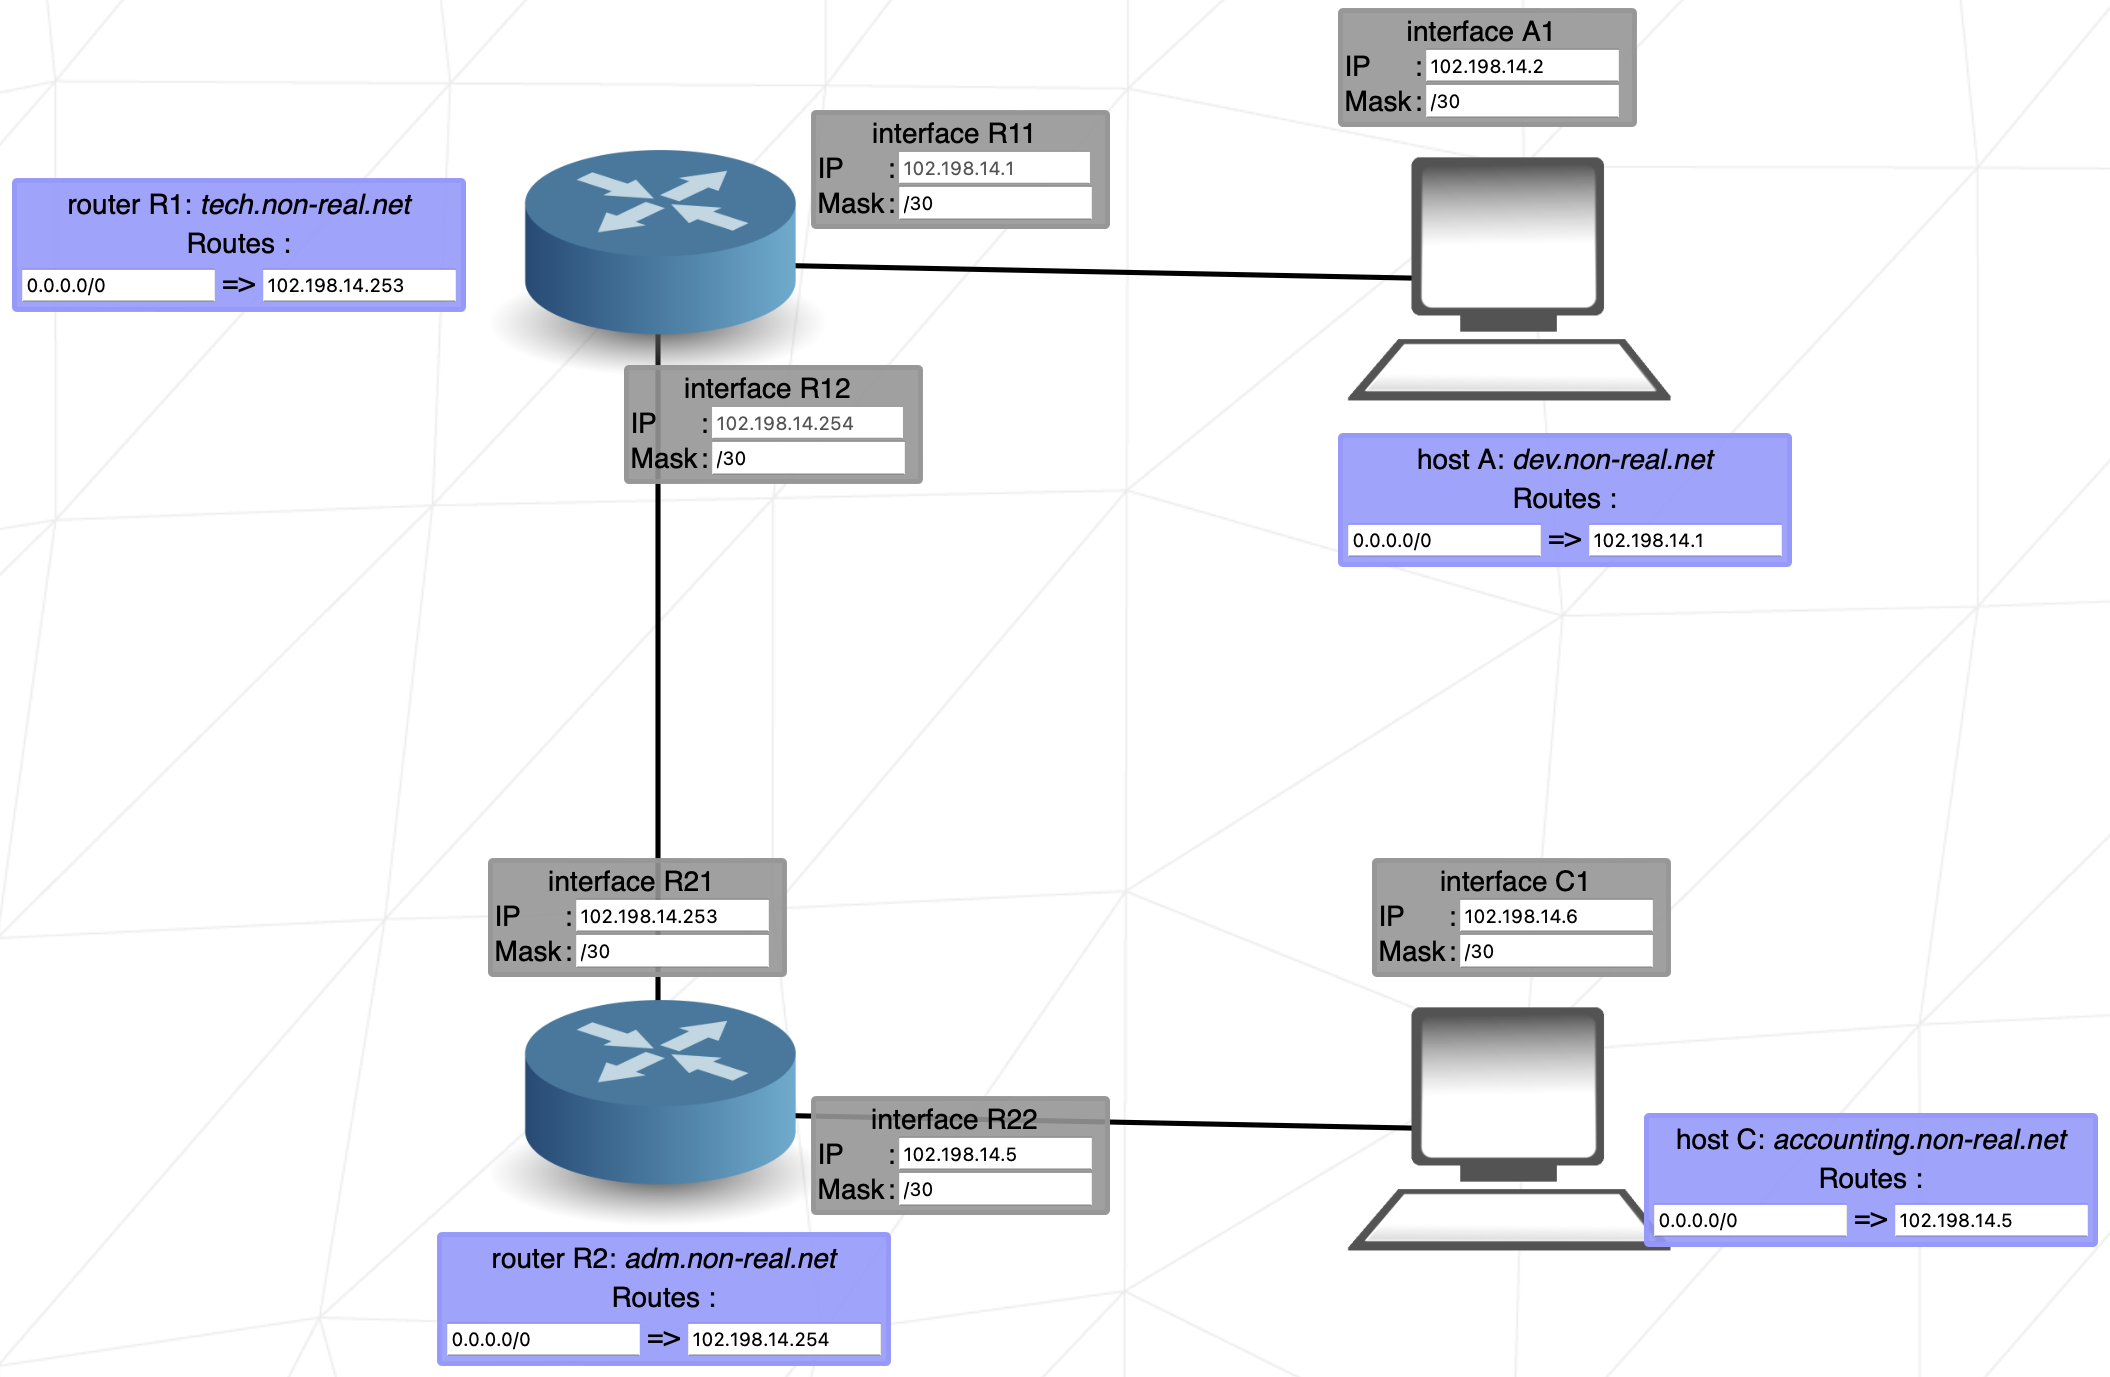
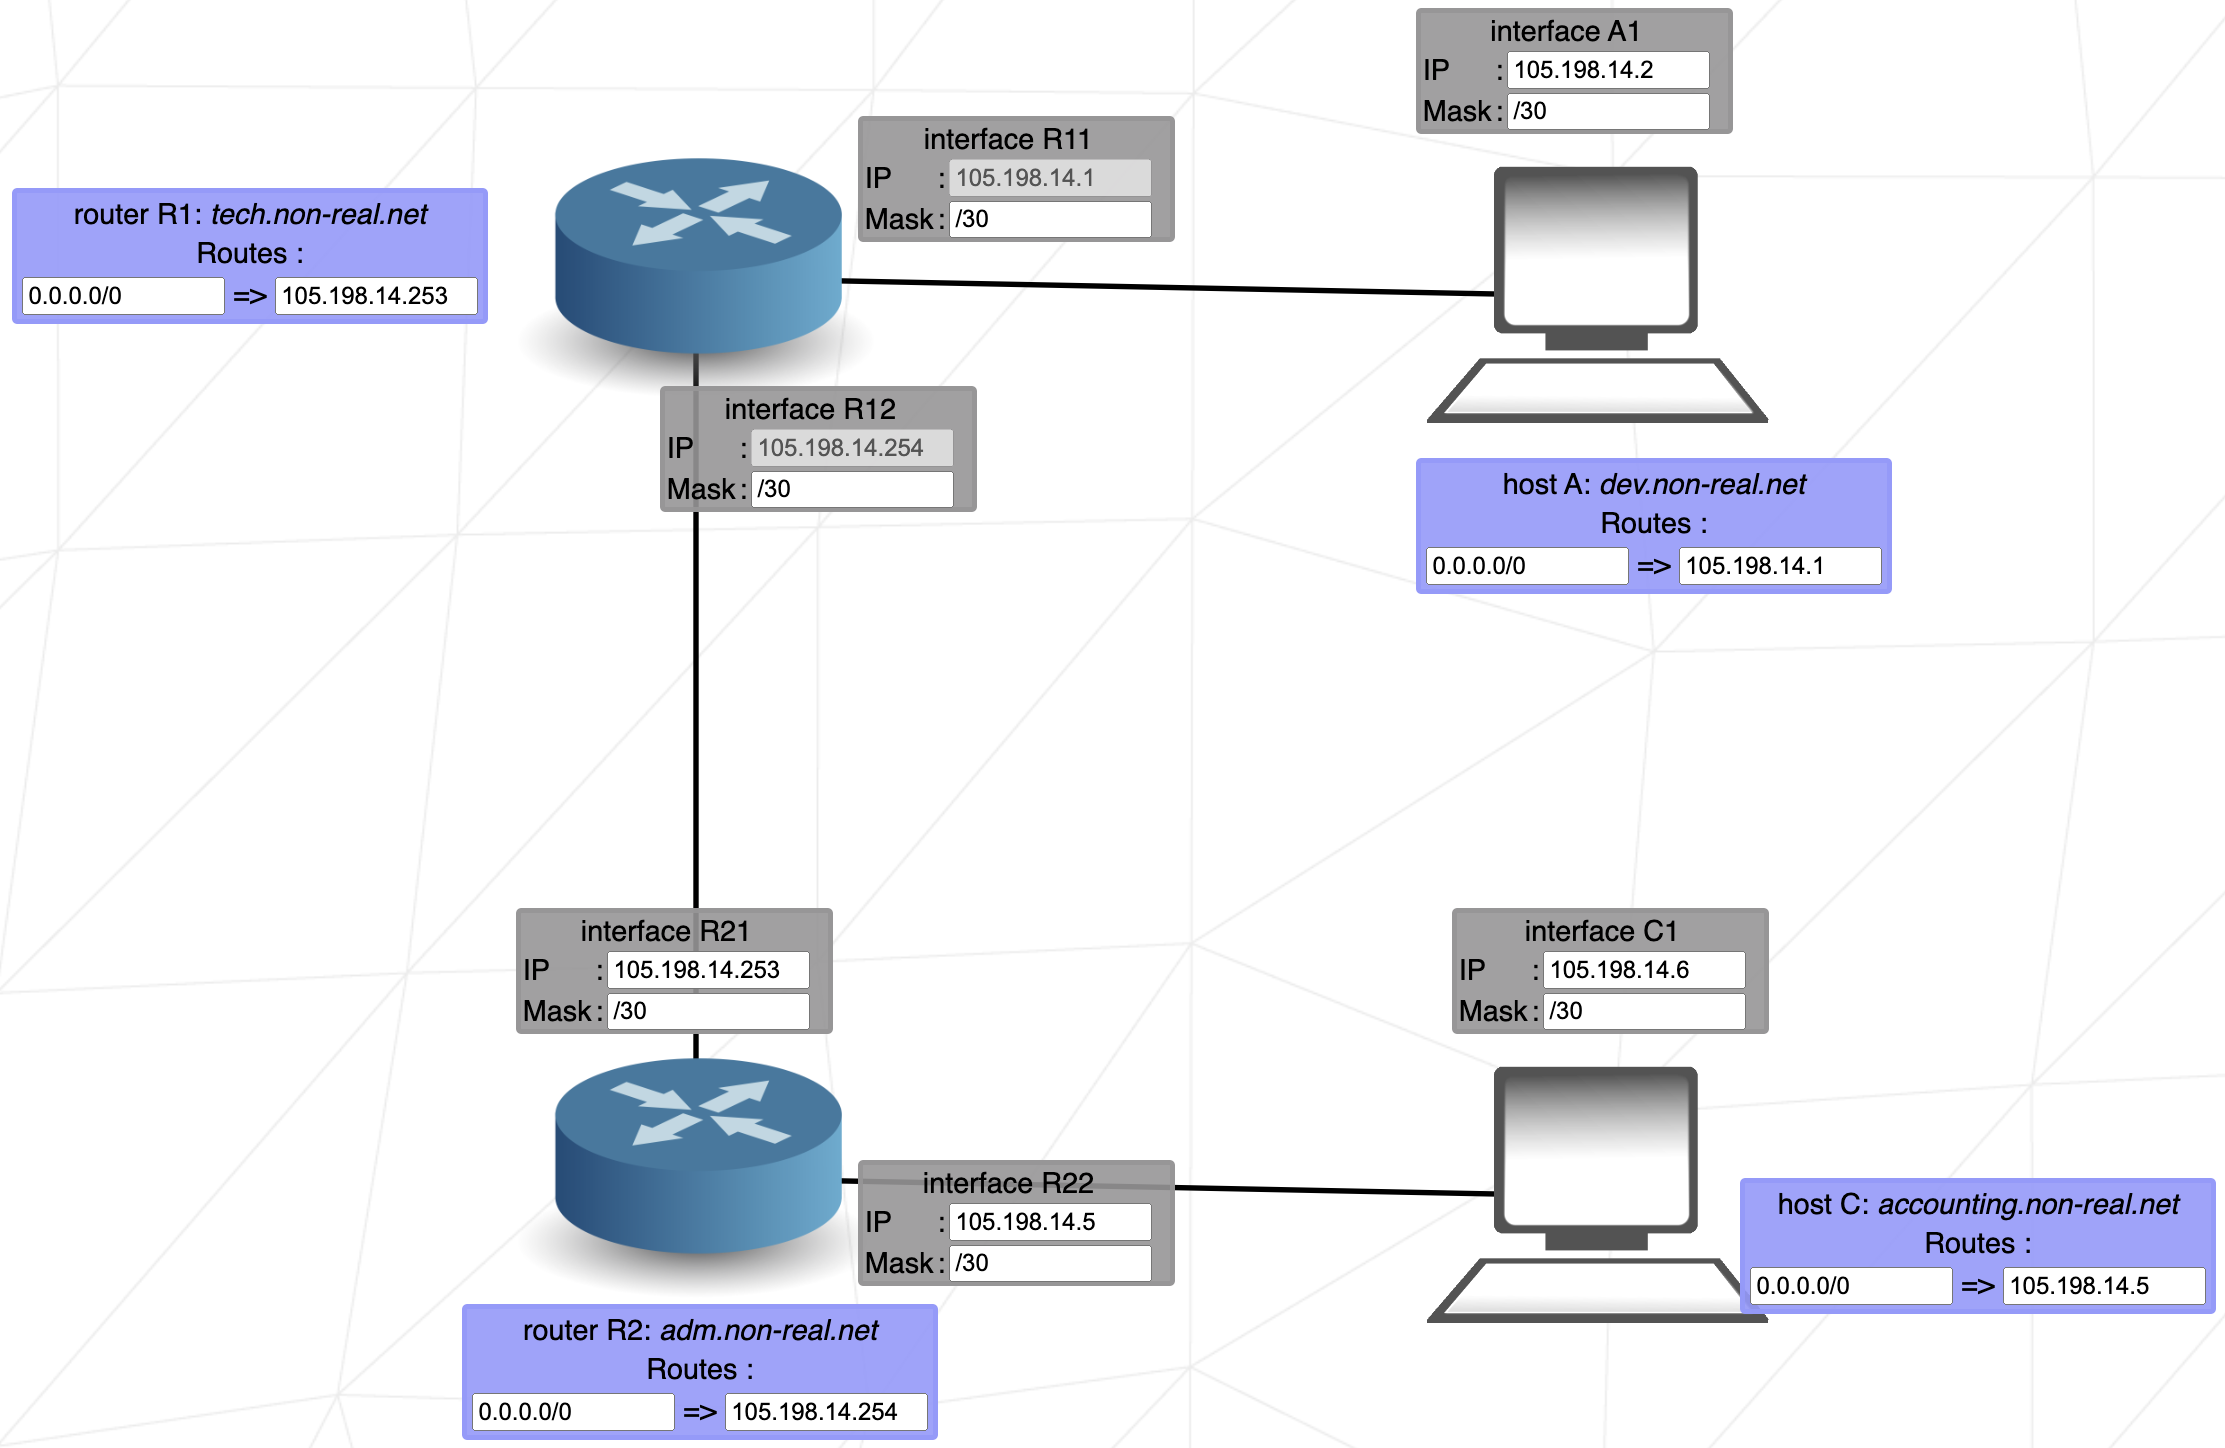
blabla

diff --git a/README.md b/README.md
@@ -337,6 +337,8 @@ comme on doit être dans la même plage que 222, qui est < 224, on peut choisir 
 
 voir les <a href="#m252">plages avec 252</a>.
 
+les adresses 127.x.x.x sont réservées pour le **loopback**, aussi appelé **localhost**, qui consiste à renvoyer des paquets vers son expéditeur sans passer par le réseau.
+
 [&uarr; retour au sommaire &uarr;](#sommaire)
 
 ## niveau 3
@@ -385,7 +387,7 @@ en effet, en partant de A, si l'adresse de destination est l'adresse IP de B, un
 en destination, on peut donc mettre l'adresse du sous-réseau de B, c'est-à-dire par exemple : 
 * `158.87.36.255/18`
 * `158.87.63.255/18` (on est toujours dans la plage < 64 avec le masque 192)
-* `158.87.0.0/0` (sans utiliser le masque)
+* `158.87.0.0/0` (on utilise pas le masque)
 
 le plus simple c'est de mettre `default` en destination.
 
@@ -395,17 +397,60 @@ le plus simple c'est de mettre `default` en destination.
 
 <img src="img/solution/6.png" width="100%" />
 
+il y a 2 sous-réseaux.
+
+dans le sous-réseau de A, le dernier octet doit être > 128.
+
+la table de routage du routeur s'occupe d'envoyer les paquets de A vers Internet.
+
+pour qu'un paquet puisse passer d'Internet au sous-réseau de A, il faut donner l'adresse du sous-réseau de A à la table de routage d'Internet.
+
 [&uarr; retour au sommaire &uarr;](#sommaire)
 
 ## niveau 7
 
 <img src="img/solution/7.png" width="100%" />
 
+il y a 3 sous-réseaux.
+
+le nombre d'interfaces par sous-réseau n'étant jamais > 2, on peut utiliser un masque /30.  
+cela permet d'utiliser `105.198.14` au début de chaque adresse IP et de définir 4 plages distinctes sur le dernier octet :
+* de 0 et 3 pour R11 et A1
+* de 252 à 255 pour R12 et R21
+* de 4 à 7 (par exemple) pour R22 et C1
+
+on peut aussi utiliser un masque /29, /28, /27 ou /26, mais pas /25 car cela ne ferait que 2 plages possibles sur le dernier octet (cf. <a href="#m128">plages pour 128</a>).
+
+autre exemple, en /26 on peut utiliser :
+* de `105.198.14.0` à `105.198.14.63` pour R11 et A1
+*  de `105.198.14.192` à `105.198.14.255` pour R12 et R21
+*  de `105.198.14.64` à `105.198.14.127` (ou de `105.198.14.128` à `105.198.14.191`) pour R22 et C1
+
 [&uarr; retour au sommaire &uarr;](#sommaire)
 
 ## niveau 8
 
 <img src="img/solution/8.png" width="100%" />
+
+il y a 4 sous-réseaux.
+
+la table de routage d'Internet sert à désigner l'adresse IP du routeur R1 lorsqu'Internet veut envoyer des paquets à C ou D. cela nous indique que C et D doivent avoir pour adresse de sous-réseau `138.250.20.0/26`, c'est-à-dire qu'ils se trouvent dans la plage entre `138.250.20.0` et `138.250.20.191` (cf. <a href="#m128">plages pour 192</a>). 
+
+la table de routage de R1 sert à diriger les paquets, soit vers Internet (par défaut), soit vers C et D losqu'ils cherchent le sous-réseau `138.250.20.0/26`.
+
+la table de routage du routeur R2 sert forcément à diriger les paquets vers Internet (sinon, elle ne servirait à rien car C et D sont directement accessibles à partir d'ici). cela nous indique que le sous-réseau composé de R13 et R21 utilise une plage contenant `138.250.20.62`.
+
+les 3 sous-réseaux du bas utilisent donc une adresse IP identique sur les 3 premiers octets.
+
+dans le sous-réseau de D on peut utiliser, par exemple, les 16 premières valeurs de l'octet (de 0 à 15).
+
+pour le reste des sous-réseaux, on est libre d'utiliser les masques qu'on veut. on peut notamment utiliser /30 car il n'y a que 2 interfaces à chaque fois.  
+
+remarque pour R13 : `138.250.20.63` est forcément une adresse de broadcast car 64 est le début d'une nouvelle plage de valeurs.
+
+l'adresse du sous-réseau de C doit être entre `138.250.20.0` et `138.250.20.191` - l'intervalle des 16 valeurs du sous-réseau de D - l'intervalle de x valeurs du sous-réseau qui contient 62.
+
+moi, j'utilise des plages de 16 en 16 partout (cf. <a href="#m240">plages de 240</a>).
 
 [&uarr; retour au sommaire &uarr;](#sommaire)
 
